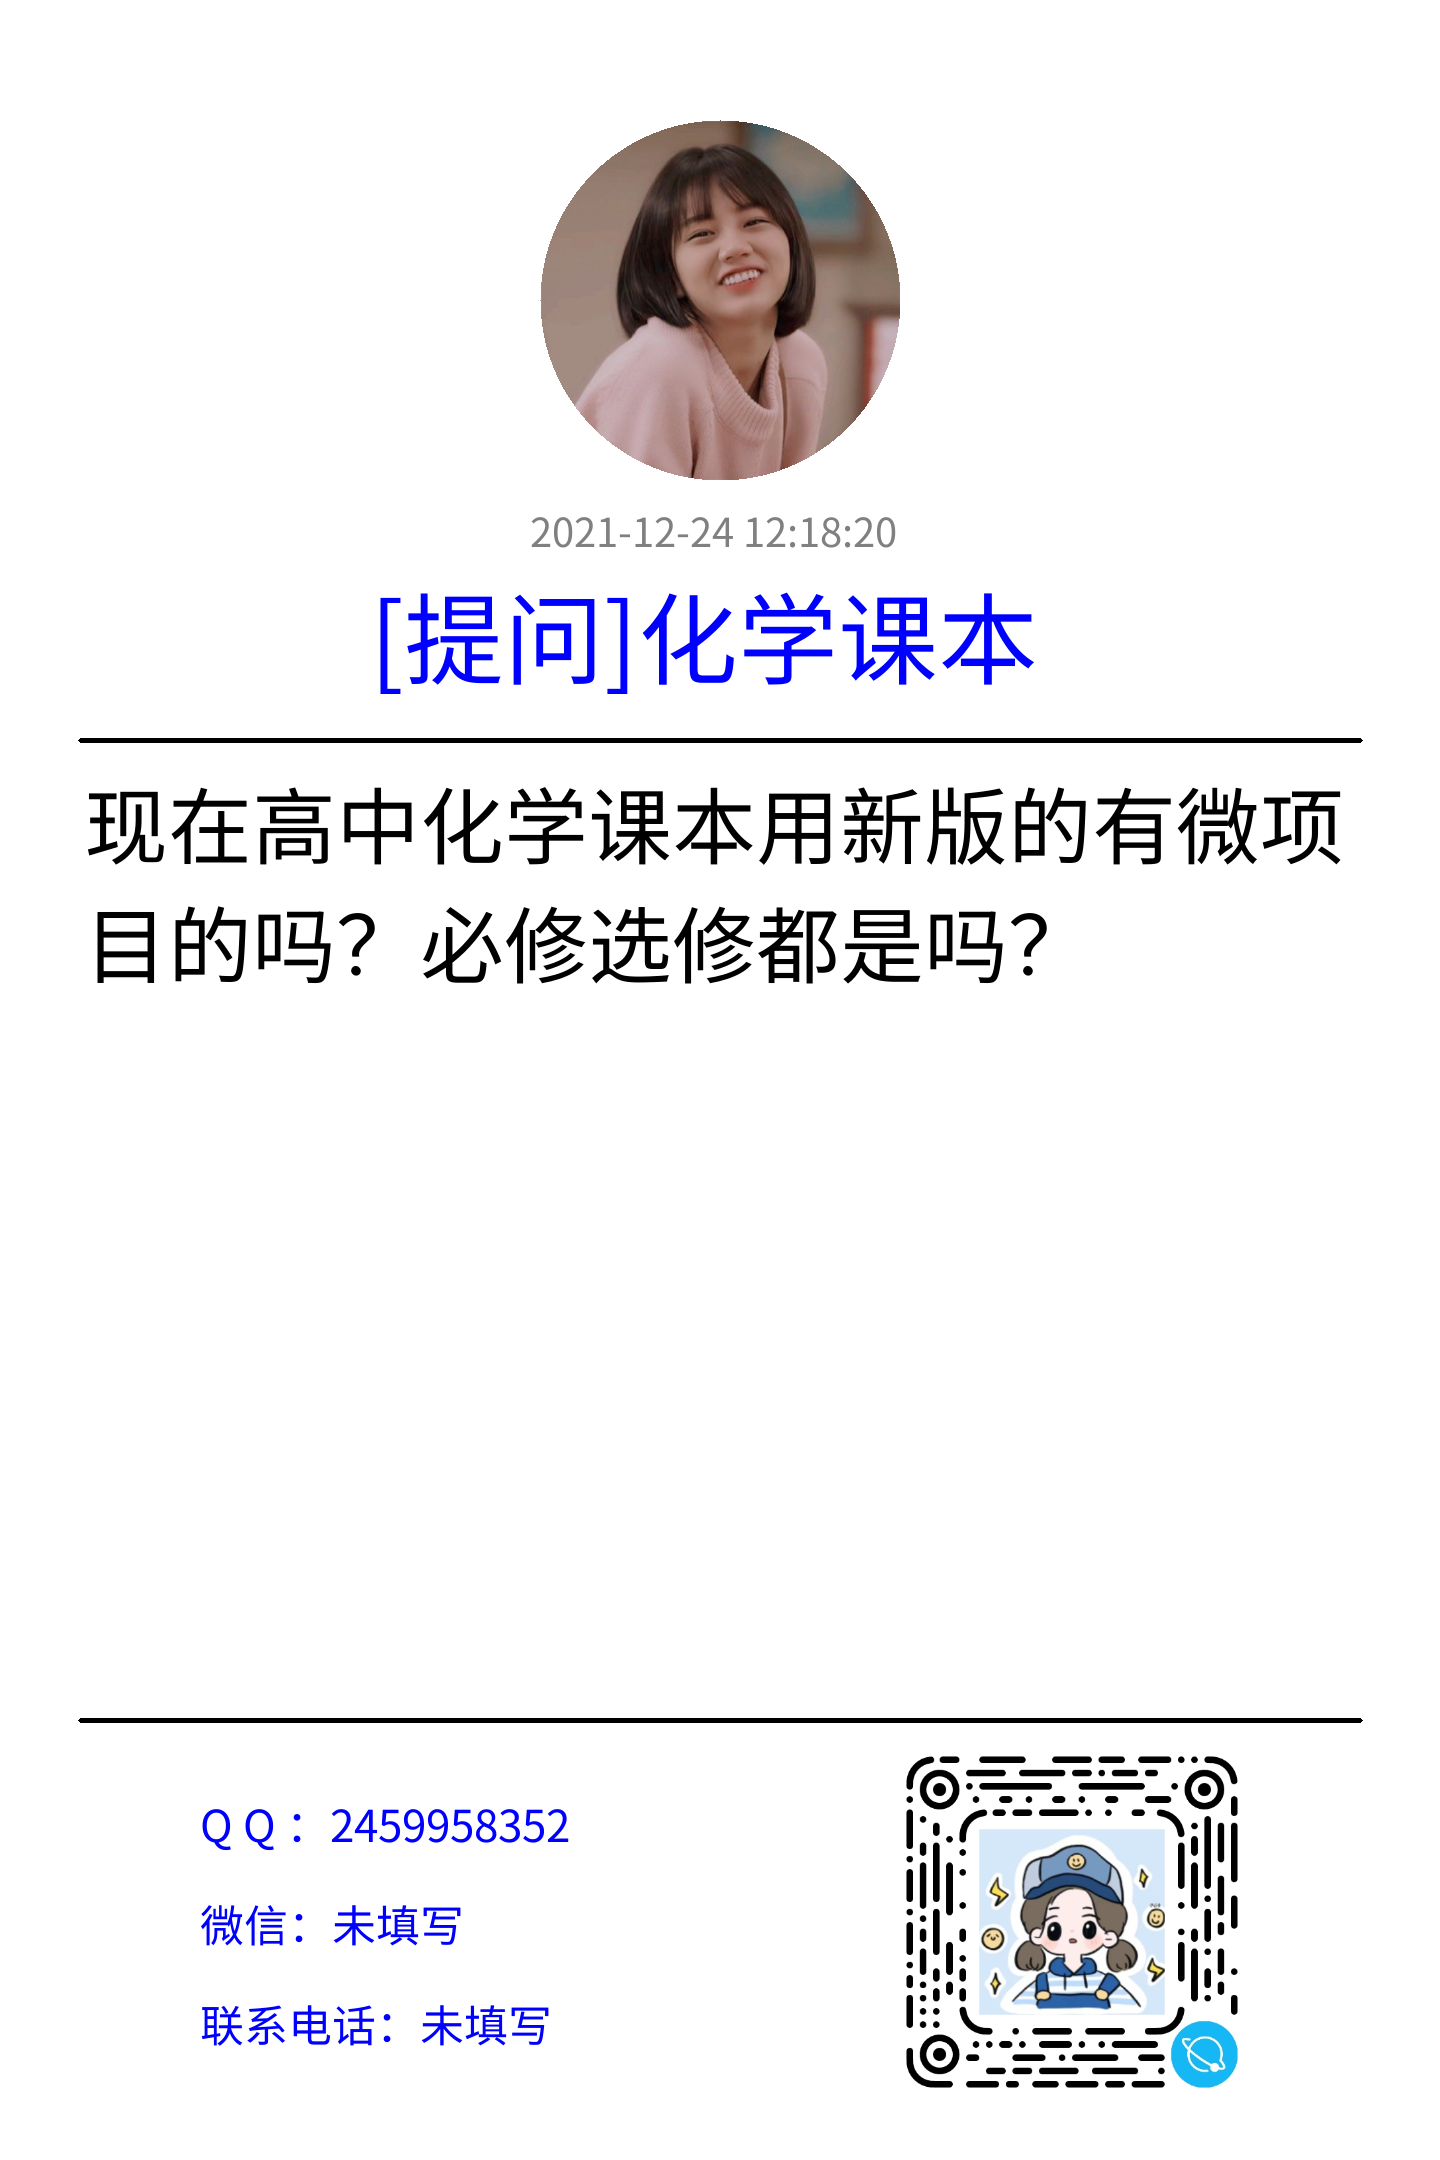
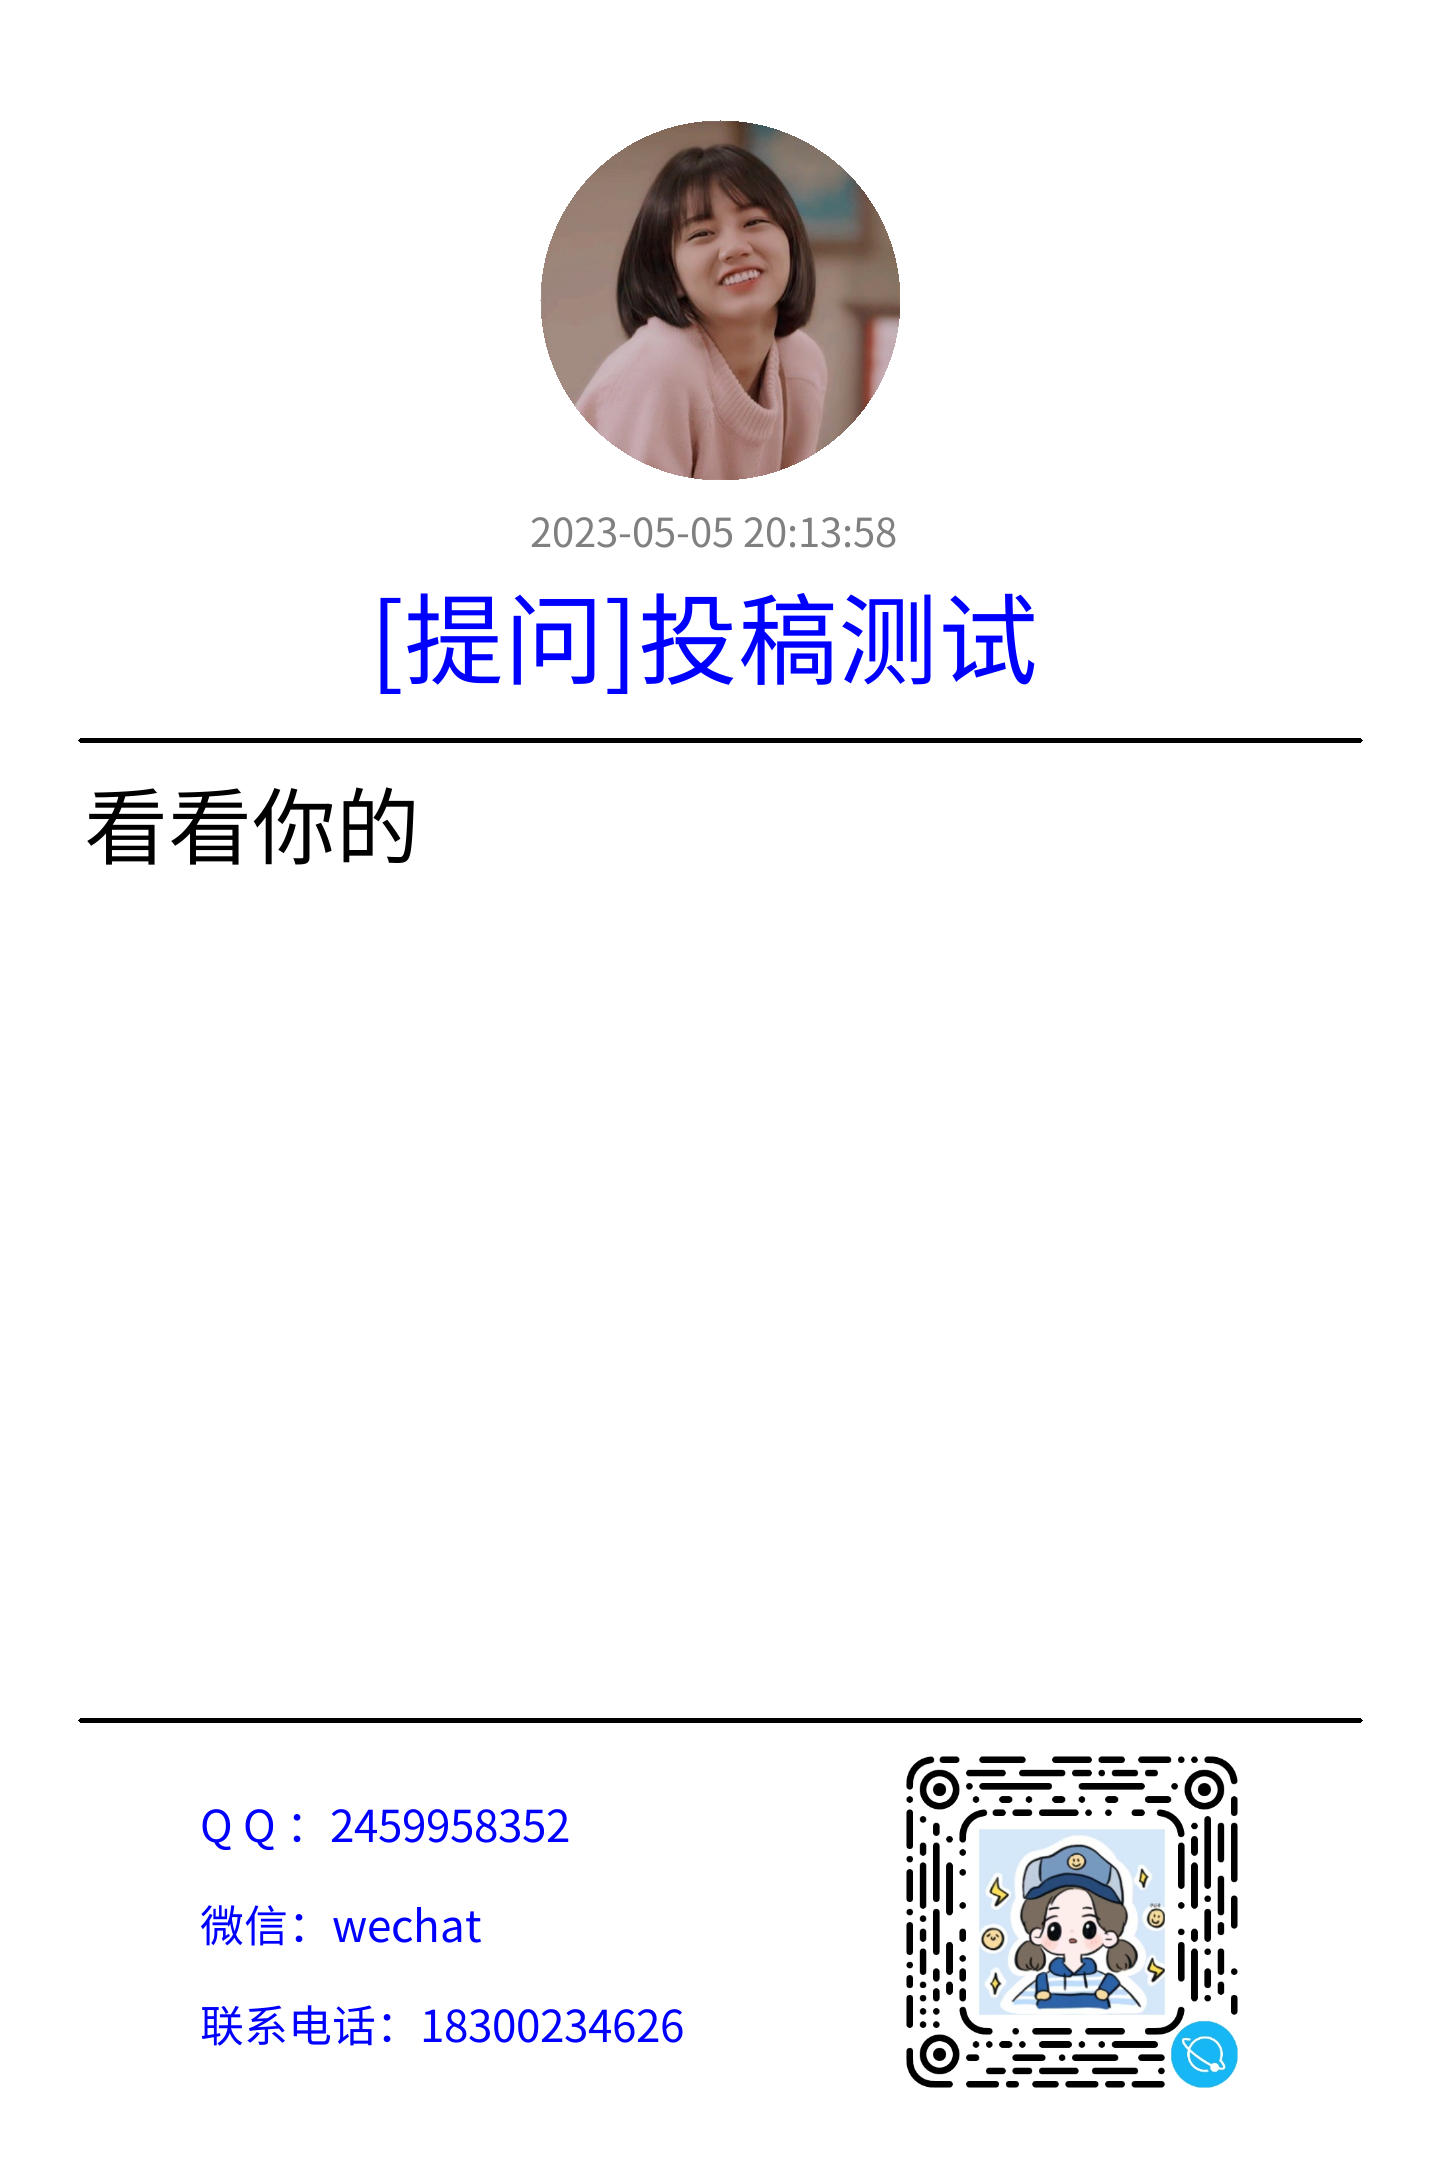
Use fastapi.

Changed region(s): [[0.0625, 0.2171, 0.9375, 0.4653], [0.2812, 0.9306, 0.4688, 0.9616], [0.2188, 0.8685, 0.3438, 0.8995]]

diff --git a/main.py b/main.py
@@ -11,12 +11,34 @@ import numpy as np
 import requests
 from PIL import Image, ImageDraw, ImageFont
 from emoji2pic import Emoji2Pic
+from datetime import datetime
+
+from typing import Union
+
+from fastapi import FastAPI
+from pydantic import BaseModel
+from fastapi.responses import StreamingResponse
 
 avatar_size = (180, 180)
 font_size = 20
 img_size = (1080, 720)
 scale = 2
 enter_scale = 65
+
+
+class Post(BaseModel):
+    school: str
+    postType: str
+    postTitle: str
+    postContent: str
+    contactQQ: str
+    contactWechat: str
+    contactTelephone: str
+    createTime: str
+    updateTime: str
+
+
+app = FastAPI()
 
 
 def cv2ImgAddText(img, text, left, top, textColor=(0, 255, 0), textSize=20):
@@ -103,7 +125,7 @@ def get_img(post_data):
     english_re = re.compile(r'[\x00-\xff]', re.S)
 
     # add detail text
-    post_text = post_data["post_text"]
+    post_text = post_data["postContent"]
     post_text_space = ""
     len_a = 0
     enter_nums = 1
@@ -135,9 +157,9 @@ def get_img(post_data):
     # add avatar
 
     print(type(post_data))
-    print(type(post_data["post_contact_qq"]))
-    if ("post_contact_qq" in keys) and len(post_data["post_contact_qq"]) != 0:
-        avatar_img = get_circle_avatar(post_data["post_contact_qq"], size=avatar_size)
+    print(type(post_data["contactQQ"]))
+    if ("contactQQ" in keys) and len(post_data["contactQQ"]) != 0:
+        avatar_img = get_circle_avatar(post_data["contactQQ"], size=avatar_size)
     else:
         avatar_img = get_circle_avatar("2825467691", size=avatar_size)
     img[int(60 * scale):int(60 * scale) + int(avatar_size[0] * scale),
@@ -147,14 +169,17 @@ def get_img(post_data):
     # real_time = post_data["post_date"]
     # post_time = "投稿时间：" + real_time[0:4] + "/" + real_time[5:7] + "/" + real_time[8:10]
     # utc8
-    post_time = time.strftime("%Y-%m-%d %H:%M:%S", time.localtime(int(post_data["post_time"]) + 28800))
+    date_str = post_data["createTime"]
+    # 2023-05-06T02:13:44" 格式转成 2023-05-06 02:13:44
+    datetime_object = datetime.strptime(date_str, "%Y-%m-%dT%H:%M:%S")
+    formatted_date_string = datetime_object.strftime("%Y-%m-%d %H:%M:%S")
 
-    print(post_time)
-    time_len = len(post_time) * 10
-    img = cv2ImgAddText(img, post_time, int((img_size[1] - time_len) * scale // 2), int(250 * scale), (128, 128, 128),
+    time_len = len(formatted_date_string) * 10
+    img = cv2ImgAddText(img, formatted_date_string, int((img_size[1] - time_len) * scale // 2), int(250 * scale),
+                        (128, 128, 128),
                         textSize=int(20 * scale))
 
-    post_type = "[" + post_data["post_type"] + "]" + post_data["post_title"]
+    post_type = "[" + post_data["postType"] + "]" + post_data["postTitle"]
 
     res = re.findall(english_re, post_type)
     print('english character num is:', res, len(res))
@@ -176,20 +201,20 @@ def get_img(post_data):
     cv2.line(img, (int(40 * scale), int(860 * scale) + int(enter_nums * enter_scale * scale)),
              (int(680 * scale), int(860 * scale) + int(enter_nums * enter_scale * scale)), (0, 0, 0),
              thickness=int(2 * scale))
-    if ("post_contact_qq" in keys) and len(post_data["post_contact_qq"]) != 0:
-        contact_qq = "Q Q ：" + post_data["post_contact_qq"]
+    if ("contactQQ" in keys) and len(post_data["contactQQ"]) != 0:
+        contact_qq = "Q Q ：" + post_data["contactQQ"]
     else:
         contact_qq = "Q Q ：" + "未填写"
     img = cv2ImgAddText(img, contact_qq, int(100 * scale), int(895 * scale) + int(enter_nums * enter_scale * scale),
                         (0, 0, 255), int(22 * scale))
-    if ("post_contact_wechat" in keys) and len(post_data["post_contact_wechat"]) != 0:
-        contact_wechat = "微信：" + post_data["post_contact_wechat"]
+    if ("contactWechat" in keys) and len(post_data["contactWechat"]) != 0:
+        contact_wechat = "微信：" + post_data["contactWechat"]
     else:
         contact_wechat = "微信：" + "未填写"
     img = cv2ImgAddText(img, contact_wechat, int(100 * scale), int(945 * scale) + int(enter_nums * enter_scale * scale),
                         (0, 0, 255), int(22 * scale))
-    if ("post_contact_tel" in keys) and len(post_data["post_contact_tel"]) != 0:
-        contact_tel = "联系电话：" + post_data["post_contact_tel"]
+    if ("contactTelephone" in keys) and len(post_data["contactTelephone"]) != 0:
+        contact_tel = "联系电话：" + post_data["contactTelephone"]
     else:
         contact_tel = "联系电话：" + "未填写"
     img = cv2ImgAddText(img, contact_tel, int(100 * scale), int(995 * scale) + int(enter_nums * enter_scale * scale),
@@ -212,14 +237,25 @@ def main():
     img = get_img(post_data)
 
     # cv2.imshow("img", img)
-    cv2.imwrite("test.png", img)
+    # cv2.imwrite("test.png", img)
 
-    # image = cv2.imencode('.png', img)[1]
+    image = cv2.imencode('.png', img)[1]
     #
+    image_code = str(base64.b64encode(image))[2:-1]
+    #
+    return image_code
+
+@app.post("/api/v1/draw")
+async def draw_post(post: Post):
+    print(post)
+    post_data = post.dict()
+    print(post_data)
+    img = get_img(post_data)
+    image = cv2.imencode('.png', img)[1]
     # image_code = str(base64.b64encode(image))[2:-1]
-    #
     # return image_code
-
-
-if __name__ == '__main__':
-    main()
+    return StreamingResponse(BytesIO(image.tobytes()), media_type="image/png")
+    # img = get_img(post_data)
+    # image = cv2.imencode('.png', img)[1]
+    # image_code = str(base64.b64encode(image))[2:-1]
+    # return image_code
